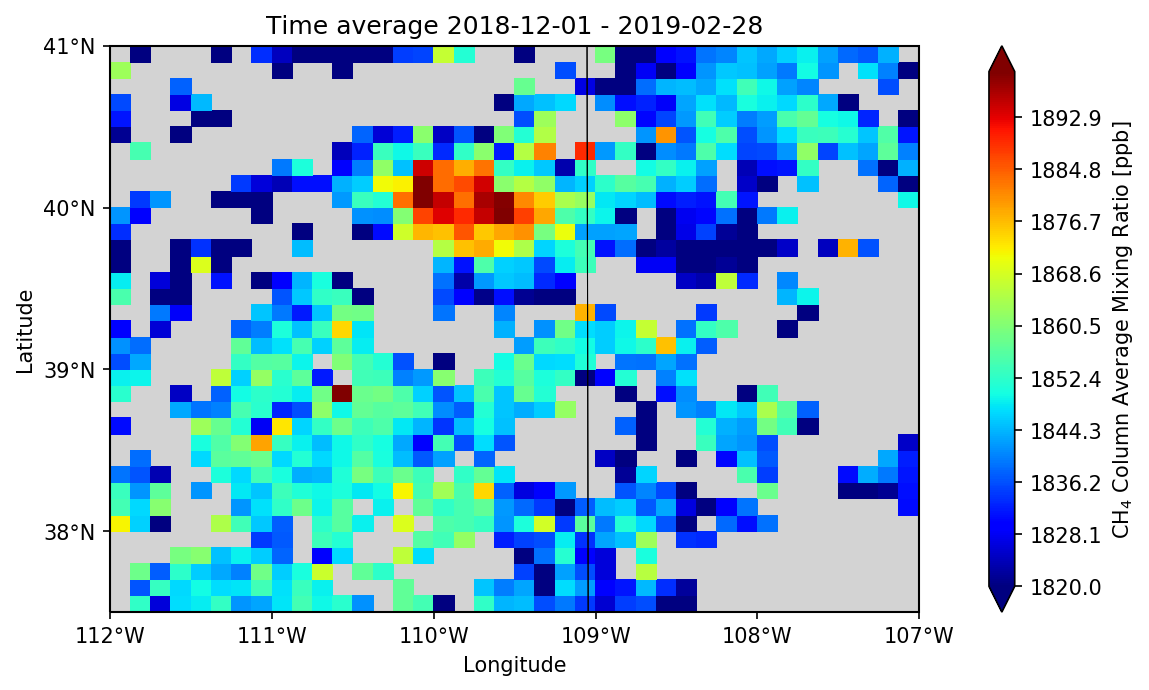
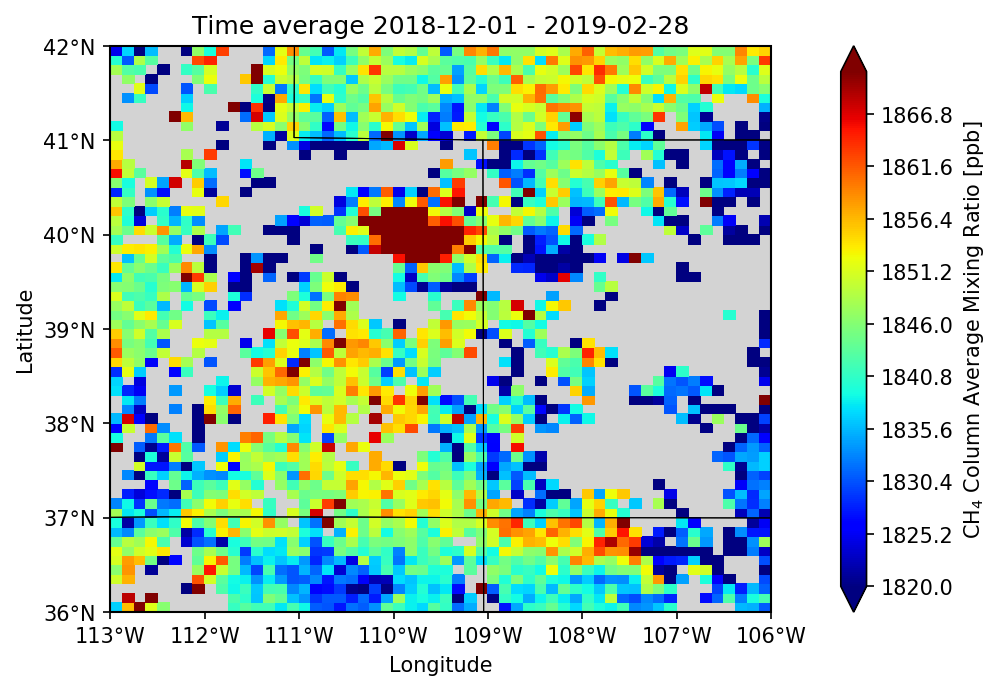
Figures: upper limit change

diff --git a/plot_TROPOMI_seasonal_variable.py b/plot_TROPOMI_seasonal_variable.py
@@ -97,10 +97,10 @@ var = 'xch4_biascorrected_qa_surf_albedo_filtered'
 # var = 'xch4_biascorrected_qa_filtered'
 label = r'CH$_4$ Column Average Mixing Ratio [ppb]'
 title = 'Time average'
-levels = np.arange(1820,1900.1,0.1)
+levels = np.arange(1820,1871.1,0.1)
 
 regions = ['usa', 'permianbasin', 'uintahbasin']
-# region = regions[0]
+# regions = [regions[1]]
 for region in regions:
     # extent = [min lon, max lon, min lat, max lat]
     if region=='usa':
@@ -110,7 +110,7 @@ for region in regions:
         extent = [-106.5, -99.5, 28.5, 34.5]
         base = 1
     elif region=='uintahbasin':
-        extent = [-112,-107, 37.5,41]
+        extent = [-113,-106, 36, 42]
         base = 1
     else:
         raise Exception('!!! Region should be \'usa\', \'permianbasin\' or \'uintahbasin\' !!!')
